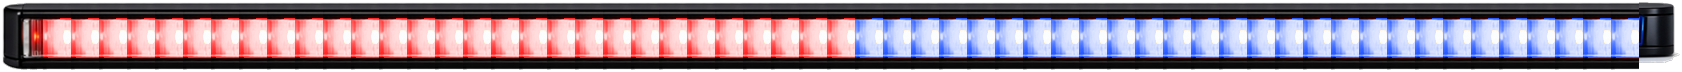
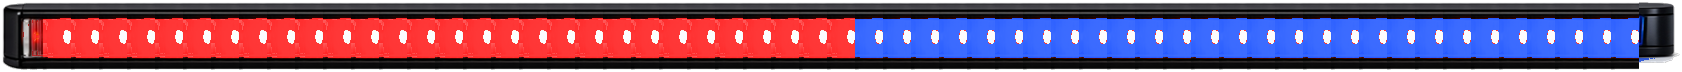
studio39: make red/blue the default read of every placed light
The scheme was already rb. Side bars looked red/white because the end-cap core was mixed toward white, and DynaFlare _rb photos were pale pink and near-white blue. Keep R/W and the other schemes selectable.

diff --git a/visualizer/index.html b/visualizer/index.html
@@ -149,7 +149,7 @@ select:focus,input[type=text]:focus{box-shadow:0 0 0 2px color-mix(in srgb,var(-
     <button class="btn" id="loadBtn" type="button" title="Import a JSON/text SKU list and place via click rules">Load SKUs</button>
   </div>
   <div class="header-right">
-    <span class="pack-stamp" id="packStamp" title="Hard-refresh cache key — if this is not studio37 you are on a stale pack">pack studio37</span>
+    <span class="pack-stamp" id="packStamp" title="Hard-refresh cache key — if this is not studio39 you are on a stale pack">pack studio39</span>
     <button class="btn btn-primary" id="pdfBtn" type="button">Print</button>
   </div>
 </header>
@@ -165,7 +165,7 @@ select:focus,input[type=text]:focus{box-shadow:0 0 0 2px color-mix(in srgb,var(-
     <div class="stage-area" id="stageArea">
       <div class="stage" id="stage">
         <div class="plate-stack" id="plateStack">
-          <img class="vehicle" id="vehicleImg" src="durango_front.png?v=studio37" alt="Vehicle" draggable="false"/>
+          <img class="vehicle" id="vehicleImg" src="durango_front.png?v=studio39" alt="Vehicle" draggable="false"/>
           <img class="vehicle-patch" id="vehiclePatch" alt="" draggable="false"/>
         </div>
         <div class="snap-guides" id="snapGuides" aria-hidden="true"></div>
@@ -219,8 +219,8 @@ select:focus,input[type=text]:focus{box-shadow:0 0 0 2px color-mix(in srgb,var(-
 (function(){
 /* Multi-canvas visualizer. Catalog is shared FedSig SKUs (no invented lights).
    Durango mounts stay as previously signed; trucks have their own snaps. */
-var ASSET_V="studio37";
-var FX_V="max14";
+var ASSET_V="studio39";
+var FX_V="s39";
 /* Fallback thickness if a Dyna row has no faceIn. Real rows use faceIn. */
 var DYNA_H=2.2;
 var DURANGO_VIEWS=[
@@ -816,8 +816,8 @@ function sideEndcapSize(){
 }
 /* Driver end matches sprite-left of the active Allegiant fx file; passenger
    matches sprite-right. rb/rbw ends are red/blue (white is mid-bar). bw is
-   blue/white. rw is red/white. Lit the same way the bar modules are: the
-   lens is the scheme color, with a whiter core. */
+   blue/white. rw is red/white. The lens is the end's primary. rb/rbw cores
+   are the other primary — a white core made the side bar read red/white. */
 function endcapLensColor(end){
   var part=CATALOG.find(function(c){ return isRoofBar(c.sku); });
   var file=part?schemeName(part.fx):"";
@@ -825,6 +825,13 @@ function endcapLensColor(end){
   if(file.indexOf("_bw.")>=0) return driver?"#2f6dff":"#f4f7ff";
   if(file.indexOf("_rw.")>=0) return driver?"#ff2d2d":"#fff6ea";
   return driver?"#ff2d2d":"#2f6dff";
+}
+function endcapCoreColor(end){
+  var lens=endcapLensColor(end);
+  var part=CATALOG.find(function(c){ return isRoofBar(c.sku); });
+  var file=part?schemeName(part.fx):"";
+  if(file.indexOf("_bw.")>=0 || file.indexOf("_rw.")>=0) return mixWhite(lens, 0.62);
+  return end!=="R"?"#2f6dff":"#ff2d2d";
 }
 function mixWhite(hex, t){
   var n=parseInt(hex.slice(1),16);
@@ -837,7 +844,15 @@ function mixWhite(hex, t){
    Stadium rx is half the shell height — no flat vertical cut. */
 function endcapMarkup(end){
   var lens=endcapLensColor(end);
-  var core=mixWhite(lens, 0.62);
+  var core=endcapCoreColor(end);
+  var part=CATALOG.find(function(c){ return isRoofBar(c.sku); });
+  var file=part?schemeName(part.fx):"";
+  /* rb/rbw: the second color fills half the existing lens. A thin core
+     is shorter than a pixel at side size and mixes back into the lens. */
+  var split=file.indexOf("_bw.")<0 && file.indexOf("_rw.")<0;
+  var cg=split
+    ? (end!=="R" ? {x:165,y:30,w:87,h:18} : {x:78,y:30,w:87,h:18})
+    : {x:108,y:34,w:114,h:8};
   var gid="endcap-lit-"+end;
   return '<svg xmlns="http://www.w3.org/2000/svg" class="endcap-draw" viewBox="0 0 330 99" preserveAspectRatio="none" overflow="visible" aria-hidden="true" focusable="false">'
     +'<defs><filter id="'+gid+'" x="-40%" y="-160%" width="180%" height="420%">'
@@ -849,7 +864,7 @@ function endcapMarkup(end){
     +'<rect class="endcap-housing" x="12" y="8" width="306" height="66" rx="33" fill="#3a4150" stroke="#eef2f7" stroke-width="7"/>'
     +'<rect x="52" y="16" width="226" height="10" rx="5" fill="#c5ceda"/>'
     +'<rect class="endcap-lens" x="78" y="30" width="174" height="18" rx="8" fill="'+lens+'" filter="url(#'+gid+')"/>'
-    +'<rect class="endcap-lens-core" x="108" y="34" width="114" height="8" rx="4" fill="'+core+'"/>'
+    +'<rect class="endcap-lens-core" x="'+cg.x+'" y="'+cg.y+'" width="'+cg.w+'" height="'+cg.h+'" rx="4" fill="'+core+'"/>'
     +'</svg>';
 }
 /* Read-only mirrors of the Front roof bar (piu GhostBar). Not stored, not selectable.

diff --git a/visualizer/TRAP-LOG.md b/visualizer/TRAP-LOG.md
@@ -1,9 +1,9 @@
-# Vector trap log — studio37 roof contact
+# Vector trap log — studio39 red/blue default
 
 Self-test owned by this pass. Valentine trap-scores after. This file does **not** certify buyer-ready.
 
 - Ran: `node visualizer/_src/run-traps.mjs` (local Chrome, not Rusty’s live preview)
-- ASSET_V: studio37 · FX_V: max14
+- ASSET_V: studio39 · FX_V: s39
 - Signed Durango plate bytes: T-PLATE-HASHES (Front/Right/Rear/Hatch/Left not recut)
 - studio35: Durango Rear ghost of a Front roof bar is bottom-anchored at y=16.4 (no barNudge), on the roof above the spoiler. Width uses the 858px widest-body span as 76 inches (42.4" ≈ 46.7% of the plate). Silverado/F-150 Rear stay center-anchored at y=20. Left/Right end-caps unchanged. Front clickPlace / defaultFor `_` unchanged. Plates unchanged.
 - Look trap: T-REAR-BAR-ON-ROOF — Durango Rear bar bottom <= 16.5% of plate height and top >= 12%; fail if the bar reaches 18%+. Width within ±5% of (858/1024)*(42.4/76). Height keeps the sprite aspect.
@@ -11,6 +11,7 @@ Self-test owned by this pass. Valentine trap-scores after. This file does **not*
 - Any light, any view: clickPlace no longer refuses Left/Right, no longer forces the roof bar or visor onto Front, and no longer purges off-front bars. Snap grids unchanged. T-ANY-LIGHT-ANY-VIEW.
 - studio36: DynaFlare sprites follow the Federal Signal face (length × 1.1in) and MPSW9 is the 5.04in black pod (sprite aspect ≤ 3.6; the black-housing cut is ~3.1). T-MPSW9-POD fails if more than 5% of opaque pixels outside the lit lens are near-white (RGB > 220) or light-gray backing (sat < 40, every channel > 120). Scaled with bodyInToPct. Roof bar length, end-cap shape, and plates unchanged.
 - studio37: Left/Right end-cap feet and the 3/4 bar bottom sit on the plate roof (T-ROOF-CONTACT fails if the gap is over 1px). The 3/4 bar stays behind the A-pillar. Rear bar is not moved.
+- studio39: New placements and the Red/Blue button use R/B on every catalog light and every view. Side end-cap cores are the other primary (not a white mix). DynaFlare _rb photos are tinted so the pale cores stay red and blue. R/W, Blue/White, and R/B/W stay selectable. T-DEFAULT-RB.
 
 | Trap | Result | Detail |
 |---|---|---|
@@ -20,9 +21,9 @@ Self-test owned by this pass. Valentine trap-scores after. This file does **not*
 | T-RBW-VISIBLE | PASS | R/B/W control not CSS-hidden |
 | T-ONE-ROOF-SKU | PASS | one roof SKU row |
 | T-TRUCKS-DROPDOWN | PASS | Silverado and F-150 in select |
-| T-ASSET-V | PASS | ASSET_V=studio37 |
+| T-ASSET-V | PASS | ASSET_V=studio39 |
 | T-NO-HOME-YANK | PASS | clickPlace never assigns camera from HOME_VIEW |
-| T-FIRST-PAINT-SRC | PASS | first-paint plate uses ?v=studio37 |
+| T-FIRST-PAINT-SRC | PASS | first-paint plate uses ?v=studio39 |
 | T-PACK-STAMP | PASS | header pack stamp present |
 | T-NO-SIDE-FALLBACK-STAMP | PASS | no Left/Right refusal, roof bar not forced to Front, off-front bars not purged |
 | T-MPSW9-NOT-WIDE-BAR | PASS | MPSW9 is the 5.04in pod fx_mpsw9, not fx_mps_wide |
@@ -40,8 +41,8 @@ Self-test owned by this pass. Valentine trap-scores after. This file does **not*
 | T-DYNA-HEAD | PASS | 21 dyna fx 200 |
 | T-DEMO-QUOTE-FILE | PASS | quotes/demo-1236.json 200 |
 | T-CHROME-RUNTIME | PASS | evaluated |
-| T-BARE-DEFAULT | PASS | {"cold":{"placements":0,"lights":0,"ghosts":0,"overlays":0,"push":false,"dash":false,"hatch":false,"pushSw":false,"pack":"pack studio37","plateSrc":"durango_front.png?v=studio37","asset":"studio37","patchOn":true},"afterPoison":{"placements":0,"lights":0,"ghosts":0,"overlays":0,"push":false,"dash":false,"hatch":false,"pushSw":false,"pack":"pack studio37","plateSrc":"durango_front.png?v=studio37","asset":"studio37","patchOn":true}} |
-| T-COLD-NO-SPRITE | PASS | {"pack":"pack studio37","src":"durango_front.png?v=studio37","asset":"studio37"} |
+| T-BARE-DEFAULT | PASS | {"cold":{"placements":0,"lights":0,"ghosts":0,"overlays":0,"push":false,"dash":false,"hatch":false,"pushSw":false,"pack":"pack studio39","plateSrc":"durango_front.png?v=studio39","asset":"studio39","patchOn":true},"afterPoison":{"placements":0,"lights":0,"ghosts":0,"overlays":0,"push":false,"dash":false,"hatch":false,"pushSw":false,"pack":"pack studio39","plateSrc":"durango_front.png?v=studio39","asset":"studio39","patchOn":true}} |
+| T-COLD-NO-SPRITE | PASS | {"pack":"pack studio39","src":"durango_front.png?v=studio39","asset":"studio39"} |
 | T-OEM-HIDE-ON | PASS | {"patchOn":true} |
 | T-BARE-EVERY-VIEW | PASS | front,rear,rear_open,left,right,hero |
 | T-CLEAR-EVERY-VIEW | PASS | front/left/right/hero empty after Clear All |
@@ -76,7 +77,8 @@ Self-test owned by this pass. Valentine trap-scores after. This file does **not*
 | T-CLICKPLACE-STAY-VIEW | PASS | {"stay":{"mpsw9Left":{"from":"left","after":"left","on":{"front":0,"rear":0,"rear_open":0,"left":1,"right":0,"hero":0},"total":1,"sku":"MPSW9-BW"},"mpsw9Hero":{"from":"hero","after":"hero","on":{"front":0,"rear":0,"rear_open":0,"left":0,"right":0,"hero":1},"total":1,"sku":"MPSW9-BW"},"mpsw9Front":{"from":"front","after":"front","on":{"front":1,"rear":0,"rear_open":0,"left":0,"right":0,"hero":0},"total":1,"sku":"MPSW9-BW"},"mpsw9Right":{"from":"right","after":"right","on":{"front":0,"rear":0,"rear_open":0,"left":0,"right":1,"hero":0},"total":1,"sku":"MPSW9-BW"},"mps63Front":{"from":"front","after":"front","on":{"front":1,"rear":0,"rear_open":0,"left":0,"right":0,"hero":0},"total":1,"sku":"MPS63U-RBW"},"xsm2Rear":{"from":"rear","after":"rear","on":{"front":0,"rear":1,"rear_open":0,"left":0,"right":0,"hero":0},"total":1,"sku":"XSM2-BRW-US"},"bumperFront":{"from":"front","after":"front","on":{"front":4,"rear":0,"rear_open":0,"left":0,"right":0,"hero":0},"total":4,"sku":"416309-RBW-SMK"},"algtLeft":{"from":"left","after":"left","on":{"front":0,"rear":0,"rear_open":0,"left":1,"right":0,"hero":0},"total":1,"sku":"ALGT53JX-P3LB"},"sifLeft":{"from":"left","after":"left","on":{"front":0,"rear":0,"rear_open":0,"left":1,"right":0,"hero":0},"total":1,"sku":"SIFMJS"},"sifFront":{"from":"front","after":"front","on":{"front":2,"rear":0,"rear_open":0,"left":0,"right":0,"hero":0},"total":2,"sku":"SIFMJS"},"homeMpsw9":"left","homeMir":"left","mpsw9Fx":"fx_mpsw9_rb.png"}} |
 | T-ILS-FRONT-ONLY | PASS | {"sifLeft":{"from":"left","after":"left","on":{"front":0,"rear":0,"rear_open":0,"left":1,"right":0,"hero":0},"total":1,"sku":"SIFMJS"},"sifFront":{"from":"front","after":"front","on":{"front":2,"rear":0,"rear_open":0,"left":0,"right":0,"hero":0},"total":2,"sku":"SIFMJS"}} |
 | T-ANY-LIGHT-ANY-VIEW | PASS | 434 SKU×view placements stayed on the clicked view |
+| T-DEFAULT-RB | PASS | {"checked":434,"badN":0,"bad":[],"leftCap":{"lens":"#ff2d2d","core":"#2f6dff"},"rightCap":{"lens":"#2f6dff","core":"#ff2d2d"},"rwSrcs":["fx_dyna_6ft_rw.png","fx_xsm2_rw.png","fx_algt_max_rw.png"],"rbSrcs":["fx_dyna_6ft_rb.png","fx_xsm2_rb.png","fx_algt_max.png"],"scheme":"rb","capOk":true,"rwOk":true,"backOk":true} |
 | T-FRONT-FALLBACK-ON-FRONT | PASS | {"algt":{"after":"front","onFront":1,"lights":1},"sif":{"after":"front","onFront":2,"lights":2},"mps63":{"after":"front","onFront":1,"lights":1},"bumper":{"after":"front","onFront":4,"lights":4},"xsm2":{"after":"front","onFront":1,"lights":1},"dr6":{"after":"front","onFront":1,"lights":1},"stick":{"after":"front","onFront":1,"lights":1}} |
-| T-MPSW9-POD | PASS | {"pod":{"w":2.39,"fx":"fx_mpsw9_rb.png","boxW":18,"boxH":6,"nw":449,"nh":145,"src":"fx/fx_mpsw9_rbw.png?v=max14"},"podAsp":3.097,"podBoxAsp":3,"white":[{"file":"fx_mpsw9_rb.png","w":449,"h":145,"opaque":53534,"nearWhiteOutside":0,"grayOutside":0,"frac":0,"ok":true},{"file":"fx_mpsw9_bw.png","w":449,"h":145,"opaque":53534,"nearWhiteOutside":0,"grayOutside":0,"frac":0,"ok":true},{"file":"fx_mpsw9_rw.png","w":449,"h":145,"opaque":53534,"nearWhiteOutside":0,"grayOutside":0,"frac":0,"ok":true},{"file":"fx_mpsw9_rbw.png","w":449,"h":145,"opaque":53534,"nearWhiteOutside":0,"grayOutside":0,"frac":0,"ok":true}]} |
+| T-MPSW9-POD | PASS | {"pod":{"w":2.39,"fx":"fx_mpsw9_rb.png","boxW":18,"boxH":6,"nw":449,"nh":145,"src":"fx/fx_mpsw9_rbw.png?v=s39"},"podAsp":3.097,"podBoxAsp":3,"white":[{"file":"fx_mpsw9_rb.png","w":449,"h":145,"opaque":53534,"nearWhiteOutside":0,"grayOutside":0,"frac":0,"ok":true},{"file":"fx_mpsw9_bw.png","w":449,"h":145,"opaque":53534,"nearWhiteOutside":0,"grayOutside":0,"frac":0,"ok":true},{"file":"fx_mpsw9_rw.png","w":449,"h":145,"opaque":53534,"nearWhiteOutside":0,"grayOutside":0,"frac":0,"ok":true},{"file":"fx_mpsw9_rbw.png","w":449,"h":145,"opaque":53534,"nearWhiteOutside":0,"grayOutside":0,"frac":0,"ok":true}]} |
 
 All named traps PASS.
